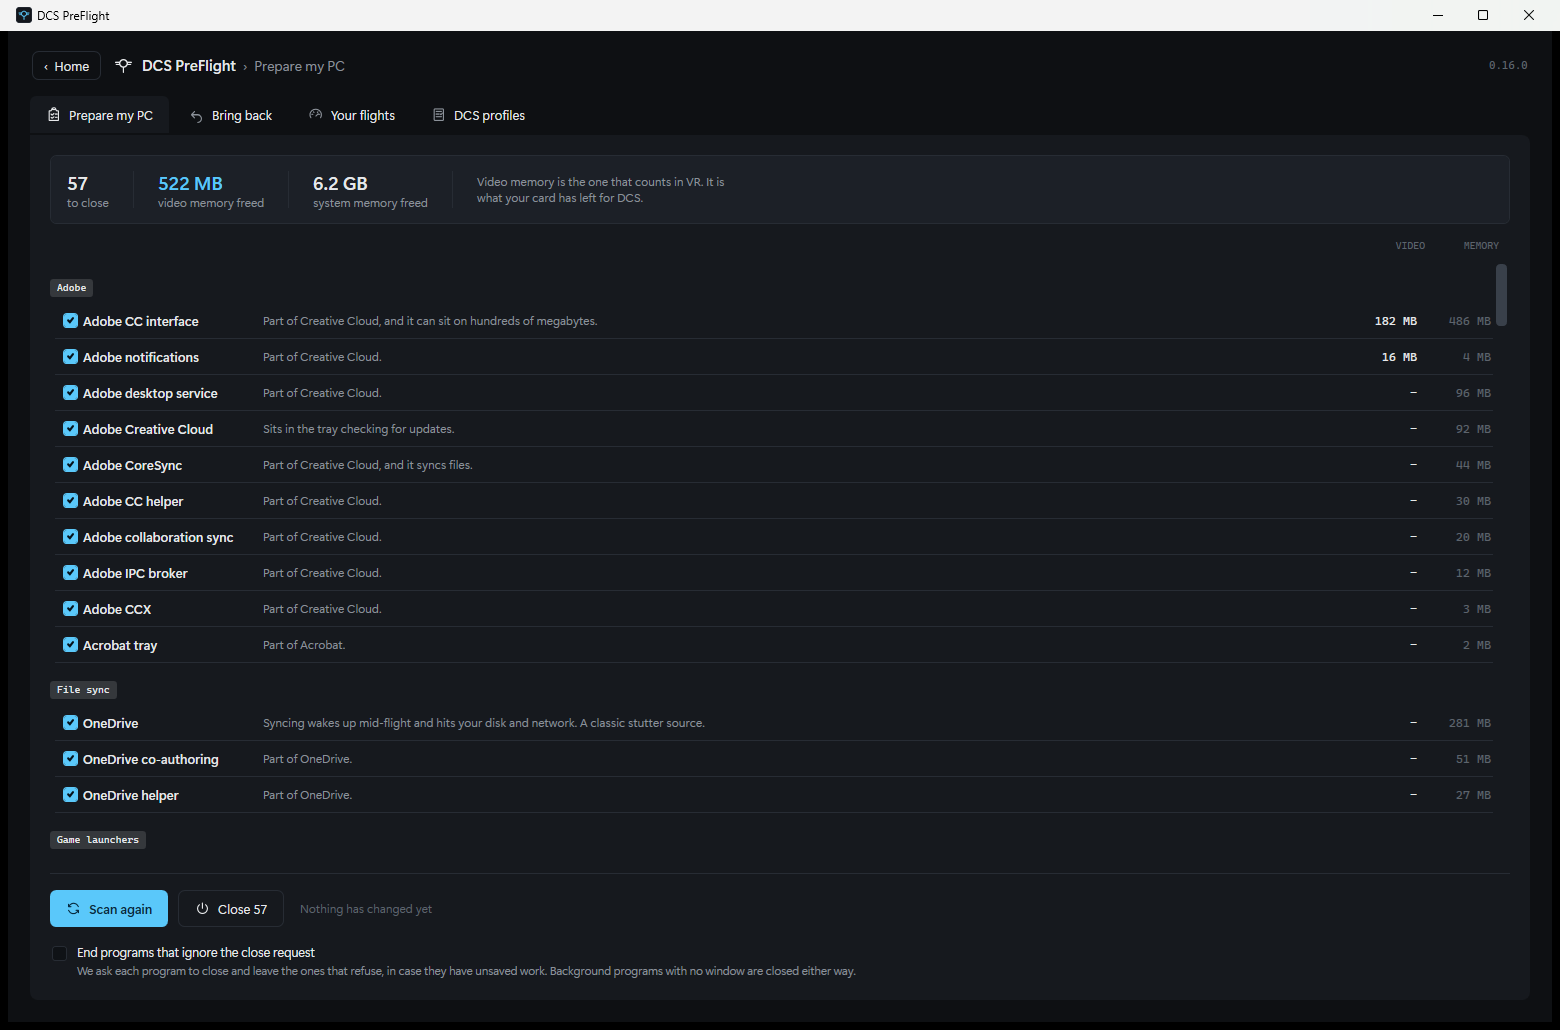
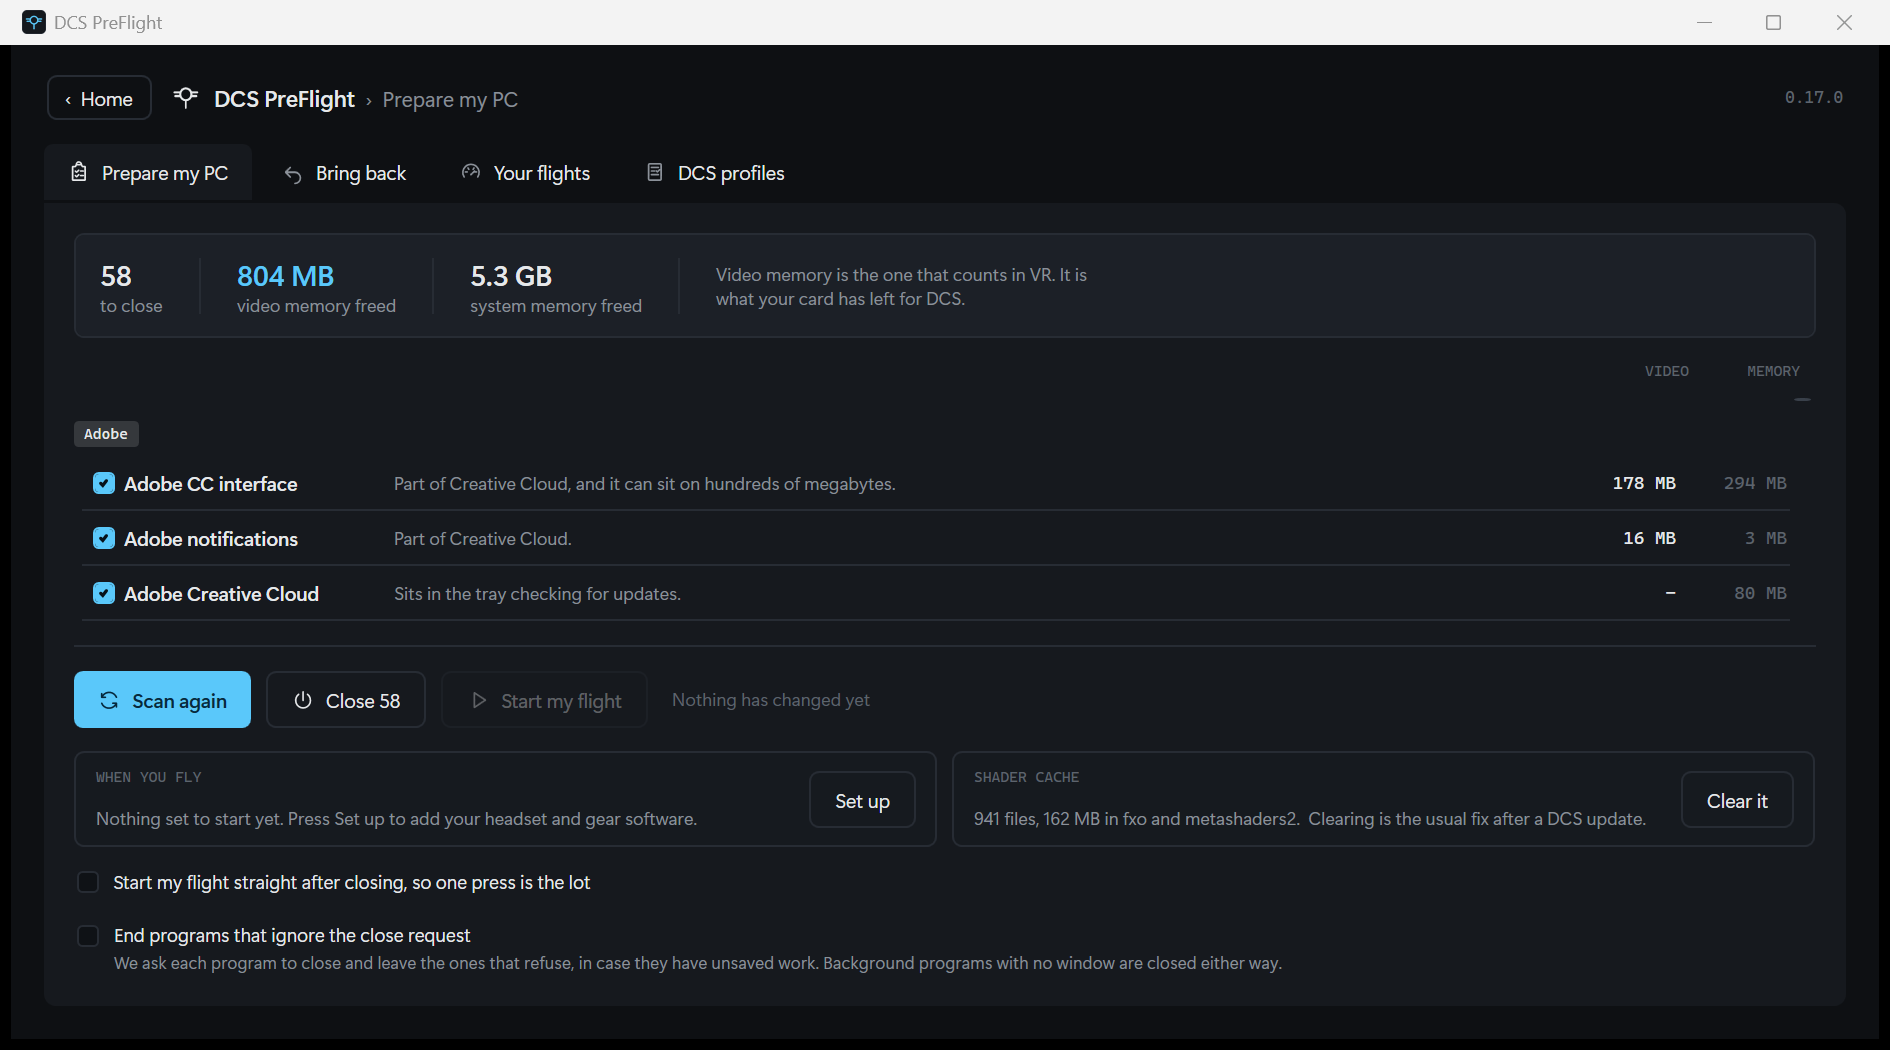
0.17.0: finding DCS when Saved Games has moved, starting your VR stack, clearing the shader cache

diff --git a/README.md b/README.md
@@ -17,6 +17,14 @@ is the figure that matters in VR, so that is the one it leads with.
 It asks each program to close politely and leaves anything that refuses, in case you have
 unsaved work in it. **Bring back** puts them all back when you have landed.
 
+Then it starts the other half of your VR stack: the headset streamer, whatever drives your
+base or your pedals, anything doing haptics. You set that list up once, drag it into the
+order you want, and it can start DCS last once the rest are up. Tick one box and closing runs
+straight on into starting, so a single press is the whole pre-flight.
+
+It will also clear DCS's shader cache, which is the usual fix after a DCS update. It tells
+you what it will delete and that the next flight will load slowly, before anything goes.
+
 **After you fly.** Leave recording on and it measures each flight by itself: it starts when
 DCS starts, stops when DCS closes, and samples every ten seconds. Afterwards it tells you
 whether your processor or your graphics card was the limit, because the answer changes which
@@ -38,20 +46,20 @@ graphics card, with the reason on hover.
 
 ## Download
 
-Grab `DCS-PreFlight-0.16.0.exe` from the [Releases](../../releases) page. It is about 62 MB
+Grab `DCS-PreFlight-0.17.0.exe` from the [Releases](../../releases) page. It is about 62 MB
 because everything it needs is inside it. There is nothing to install and nothing to
 configure. Put it anywhere you like and run it.
 
-SHA-256 of the 0.16.0 build:
+SHA-256 of the 0.17.0 build:
 
 ```
[2 lines of base64/hex data omitted]
 ```
 
 Check it before you run it if you like:
 
 ```powershell
-Get-FileHash .\DCS-PreFlight-0.16.0.exe -Algorithm SHA256
+Get-FileHash .\DCS-PreFlight-0.17.0.exe -Algorithm SHA256
 ```
 
 ### Windows will warn you the first time
@@ -66,6 +74,16 @@ hash above is the real check, and it is a better one.
 - Windows 10 or 11, 64-bit
 - DCS World
 - Nothing else. The .NET runtime is inside the download.
+
+## If it cannot find DCS
+
+It looks in the Saved Games folder Windows reports, which follows that folder if you have
+moved it to another drive or let OneDrive redirect it. It does not need to be run from any
+particular place, and there is nothing to configure first.
+
+If it still cannot find it, open **DCS profiles** and press **Tell us where DCS is**. Point it
+at either your Saved Games folder or the DCS folder inside it. Both work, and it checks the
+folder before it keeps it, so a wrong one says so straight away.
 
 ## What it can and cannot measure
 
